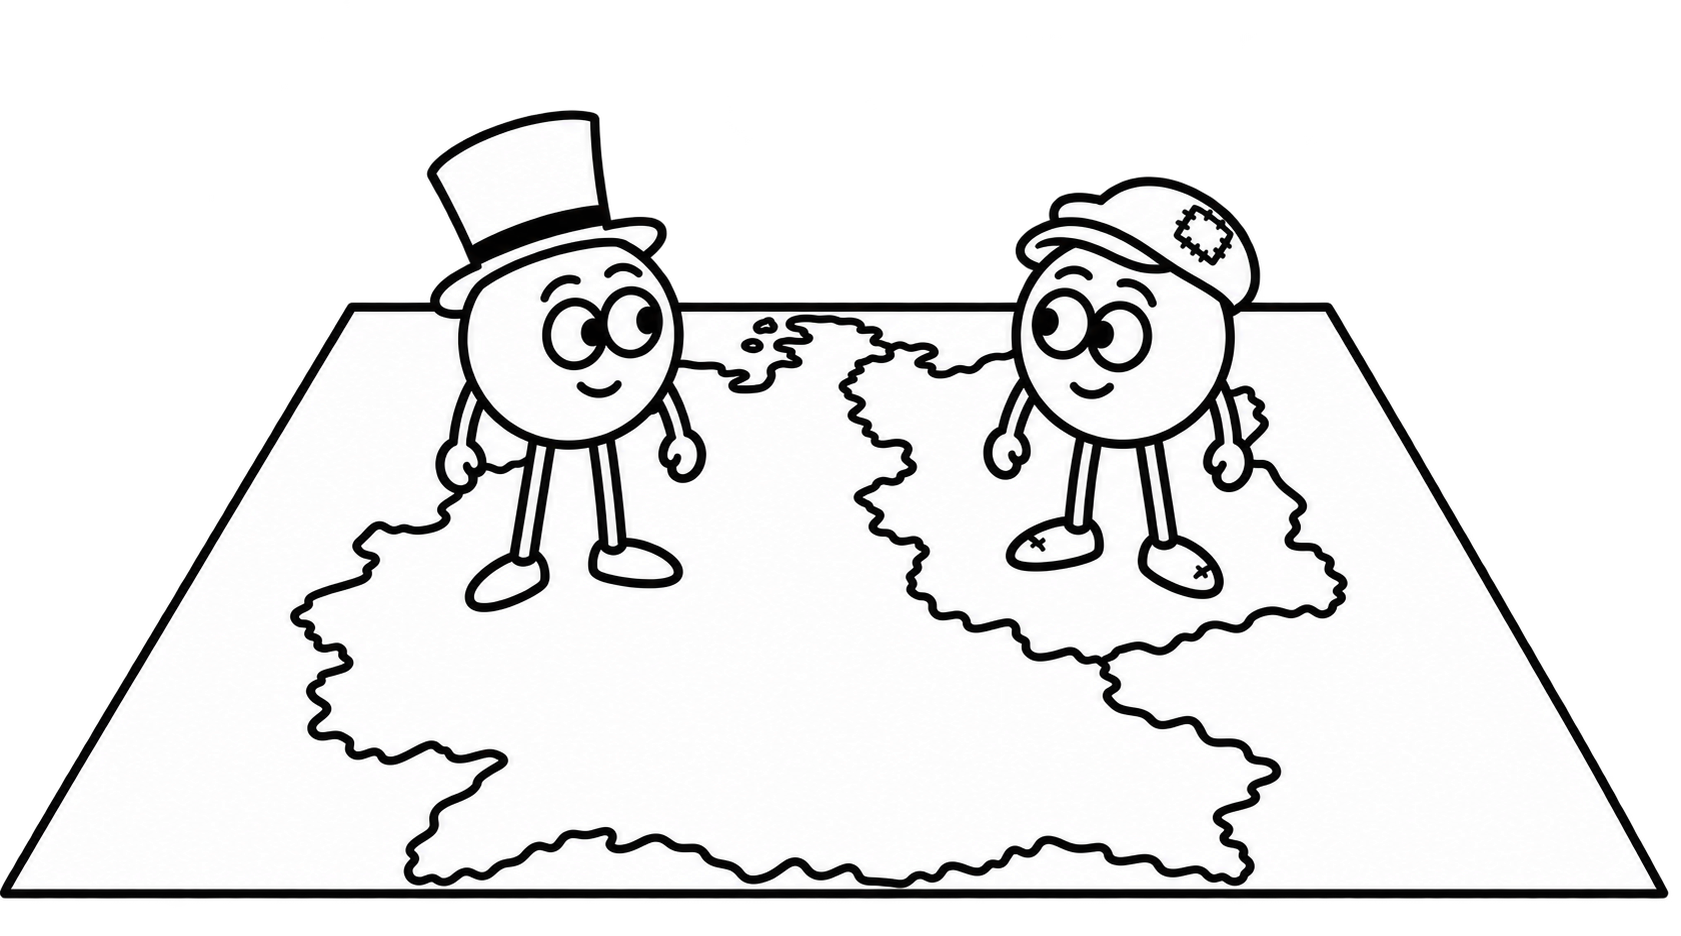
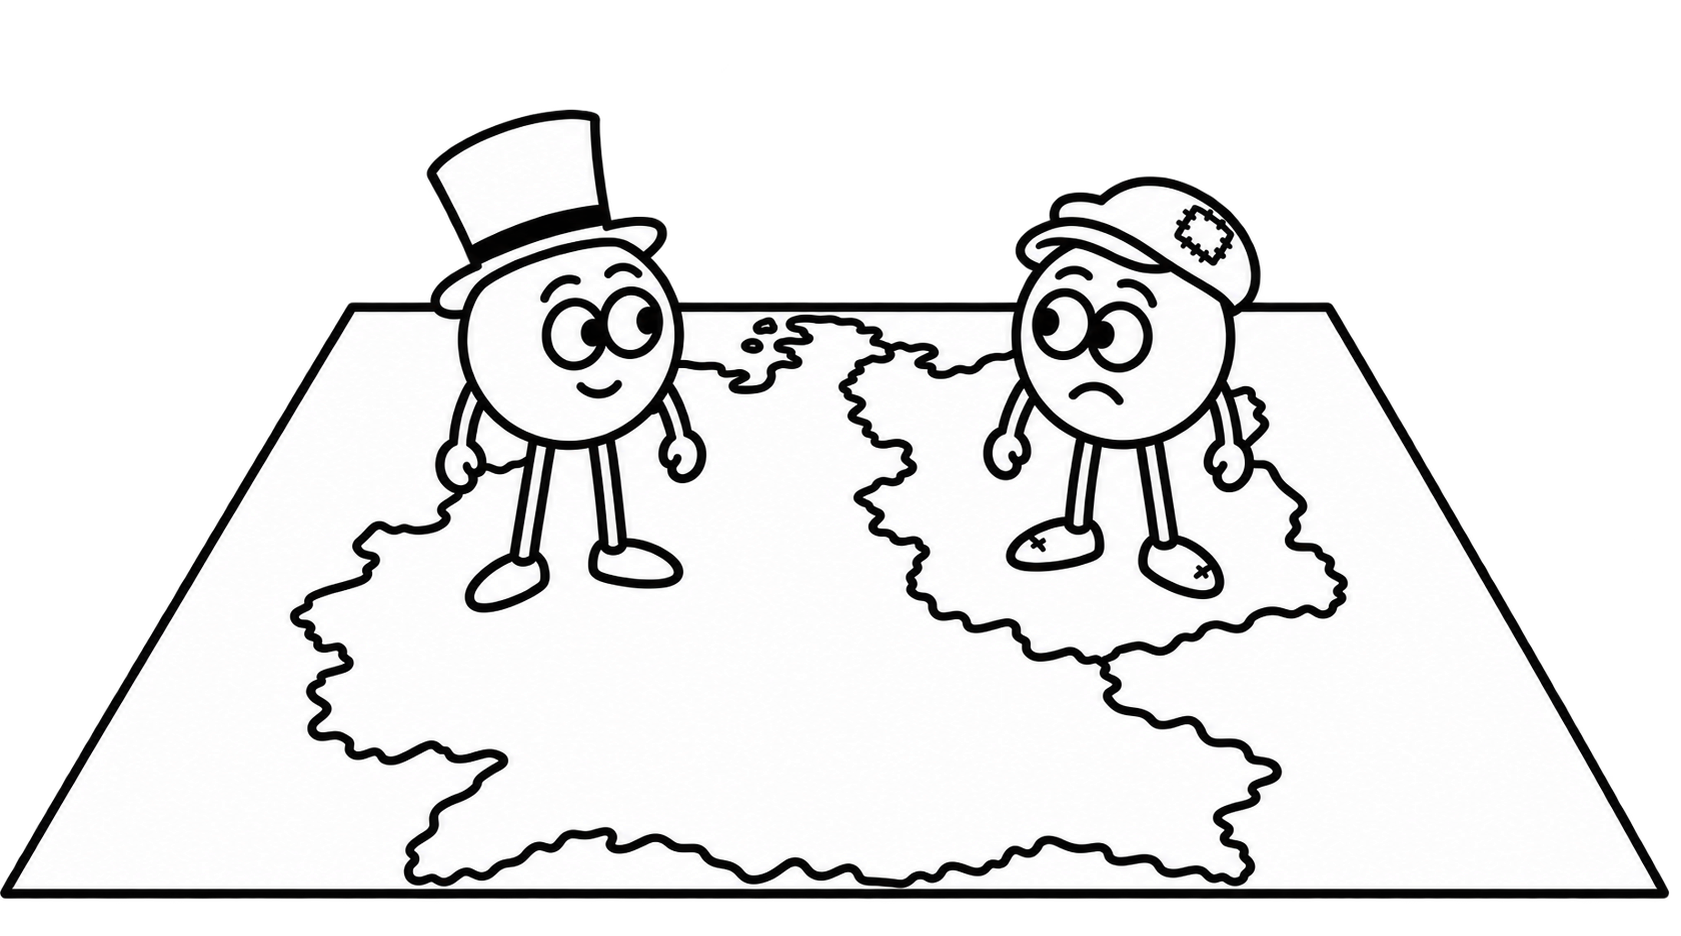
Refine Germany character expression and map credit

diff --git a/docs/shap/style.css b/docs/shap/style.css
@@ -465,7 +465,6 @@ dialog p { font-size:16px; }
 .transition-citation { max-width:660px; margin:0 auto!important; font:16px/1.5 var(--serif); color:var(--muted); }
 .earnings-transition .transition-title { margin-bottom:30px; }
 .earnings-transition-art { width:min(520px,100%); max-height:240px; margin-bottom:8px; }
-.transition-regions { display:grid; grid-template-columns:repeat(2,minmax(0,1fr)); gap:16px; max-width:520px; margin:0 auto 24px; font:16px/1.4 var(--serif); }
 .earnings-transition .transition-equation { font-size:clamp(24px,5.4cqi,46px); margin-bottom:28px; }
 .transition-explanation { max-width:620px; margin:0 auto 18px!important; font:22px/1.5 var(--serif); }
 @media(max-width:649px), (max-width:860px) and (min-height:551px) {
@@ -488,7 +487,6 @@ dialog p { font-size:16px; }
   .transition-citation { font-size:15px; }
   .earnings-transition .transition-title { margin-bottom:24px; }
   .earnings-transition-art { width:min(440px,100%); max-height:210px; margin-bottom:6px; }
-  .transition-regions { margin-bottom:18px; font-size:15px; }
   .transition-explanation { font-size:19px; margin-bottom:16px!important; }
 }
 @media(max-width:450px) {
@@ -504,7 +502,6 @@ dialog p { font-size:16px; }
   .transition-citation { font-size:14px; line-height:1.4; }
   .earnings-transition .transition-title { margin-bottom:18px; }
   .earnings-transition-art { width:min(210px,100%); max-height:105px; margin-bottom:5px; }
-  .transition-regions { max-width:260px; margin-bottom:12px; font-size:14px; line-height:1.3; }
   .earnings-transition .transition-equation { font-size:clamp(22px,4cqi,30px); margin-bottom:10px; }
   .transition-explanation { font-size:18px; }
   .earnings-transition .transition-explanation { font-size:16px; line-height:1.4; margin-bottom:10px!important; }
@@ -531,6 +528,5 @@ dialog p { font-size:16px; }
 @media screen and (max-width:450px) and (max-height:550px) {
   .earnings-transition .transition-title { font-size:24px; margin-bottom:8px; }
   .earnings-transition-art { width:min(160px,100%); max-height:80px; margin-bottom:3px; }
-  .earnings-transition .transition-regions { margin-bottom:8px; }
   .earnings-transition .transition-equation { margin-bottom:8px; }
 }

diff --git a/docs/shap/index.html b/docs/shap/index.html
@@ -165,13 +165,12 @@
           <p class="step-number">15 / 22 · When features interact</p>
           <div class="transition-content earnings-transition">
             <h2 class="transition-title">When features interact</h2>
-            <img class="transition-art earnings-transition-art" src="assets/earnings-germany-characters.png" alt="Two round body-and-face characters with stick limbs and no torso stand on a tilted map of Germany. The western character wears a top hat; the eastern character wears a patched cap.">
-            <div class="transition-regions" role="group" aria-label="The institutional settings shown in the illustration"><span>West Germany</span><span>East Germany</span></div>
+            <img class="transition-art earnings-transition-art" src="assets/earnings-germany-characters.png" alt="Two round body-and-face characters with stick limbs and no torso stand on a tilted map of Germany. The smiling western character wears a top hat; the frowning eastern character wears a patched cap.">
             <div class="transition-equation" role="math" aria-label="Ability times neighborhood, the interaction inside the earnings model">
               <math aria-hidden="true"><mrow><mtext>ability</mtext><mspace width="0.2em"></mspace><mo lspace="0em" rspace="0em">×</mo><mspace width="0.2em"></mspace><mtext>neighborhood</mtext></mrow></math>
             </div>
             <p class="transition-explanation">Same ability and experience; different institutional settings.</p>
-            <p class="transition-source">Map: Kunz &amp; Moeschl · <a href="https://www.ieg-maps.uni-mainz.de/mapsp/mapp989d.htm">IEG-Maps 360</a> · CC BY-NC 4.0.</p>
+            <p class="transition-source">West and East Germany Map: Kunz &amp; Moeschl · <a href="https://www.ieg-maps.uni-mainz.de/mapsp/mapp989d.htm">IEG-Maps 360</a> · CC BY-NC 4.0.</p>
           </div>
         </div></section>
         <section class="step" id="observation" data-step="15" aria-labelledby="observation-heading"><div class="step-content">

diff --git a/docs/shap/README.md b/docs/shap/README.md
@@ -102,10 +102,10 @@ The equation is a stylized, centered and standardized teaching specification,
 rather than the original historical fit. The split layout begins with the
 three correlations in frame nine. Frame 15 is another centered transition,
 “When features interact,” showing two round body-and-face characters with
-stick limbs on a tilted map of Germany. The western character wears a top hat;
-the eastern character wears a patched cap and worn shoes. West Germany and
-East Germany are labeled in real text. The caption holds ability and experience
-constant while the institutional setting changes. The native math term
+stick limbs on a tilted map of Germany. The smiling western character wears a
+top hat; the frowning eastern character wears a patched cap and worn shoes.
+The bottom map credit names West and East Germany. The caption holds ability
+and experience constant while the institutional setting changes. The native math term
 `ability × neighborhood` connects that comparison to the illustrative earnings
 equation. The full earnings model and person selector appear in frame 16.
 The story has 22 frames.
